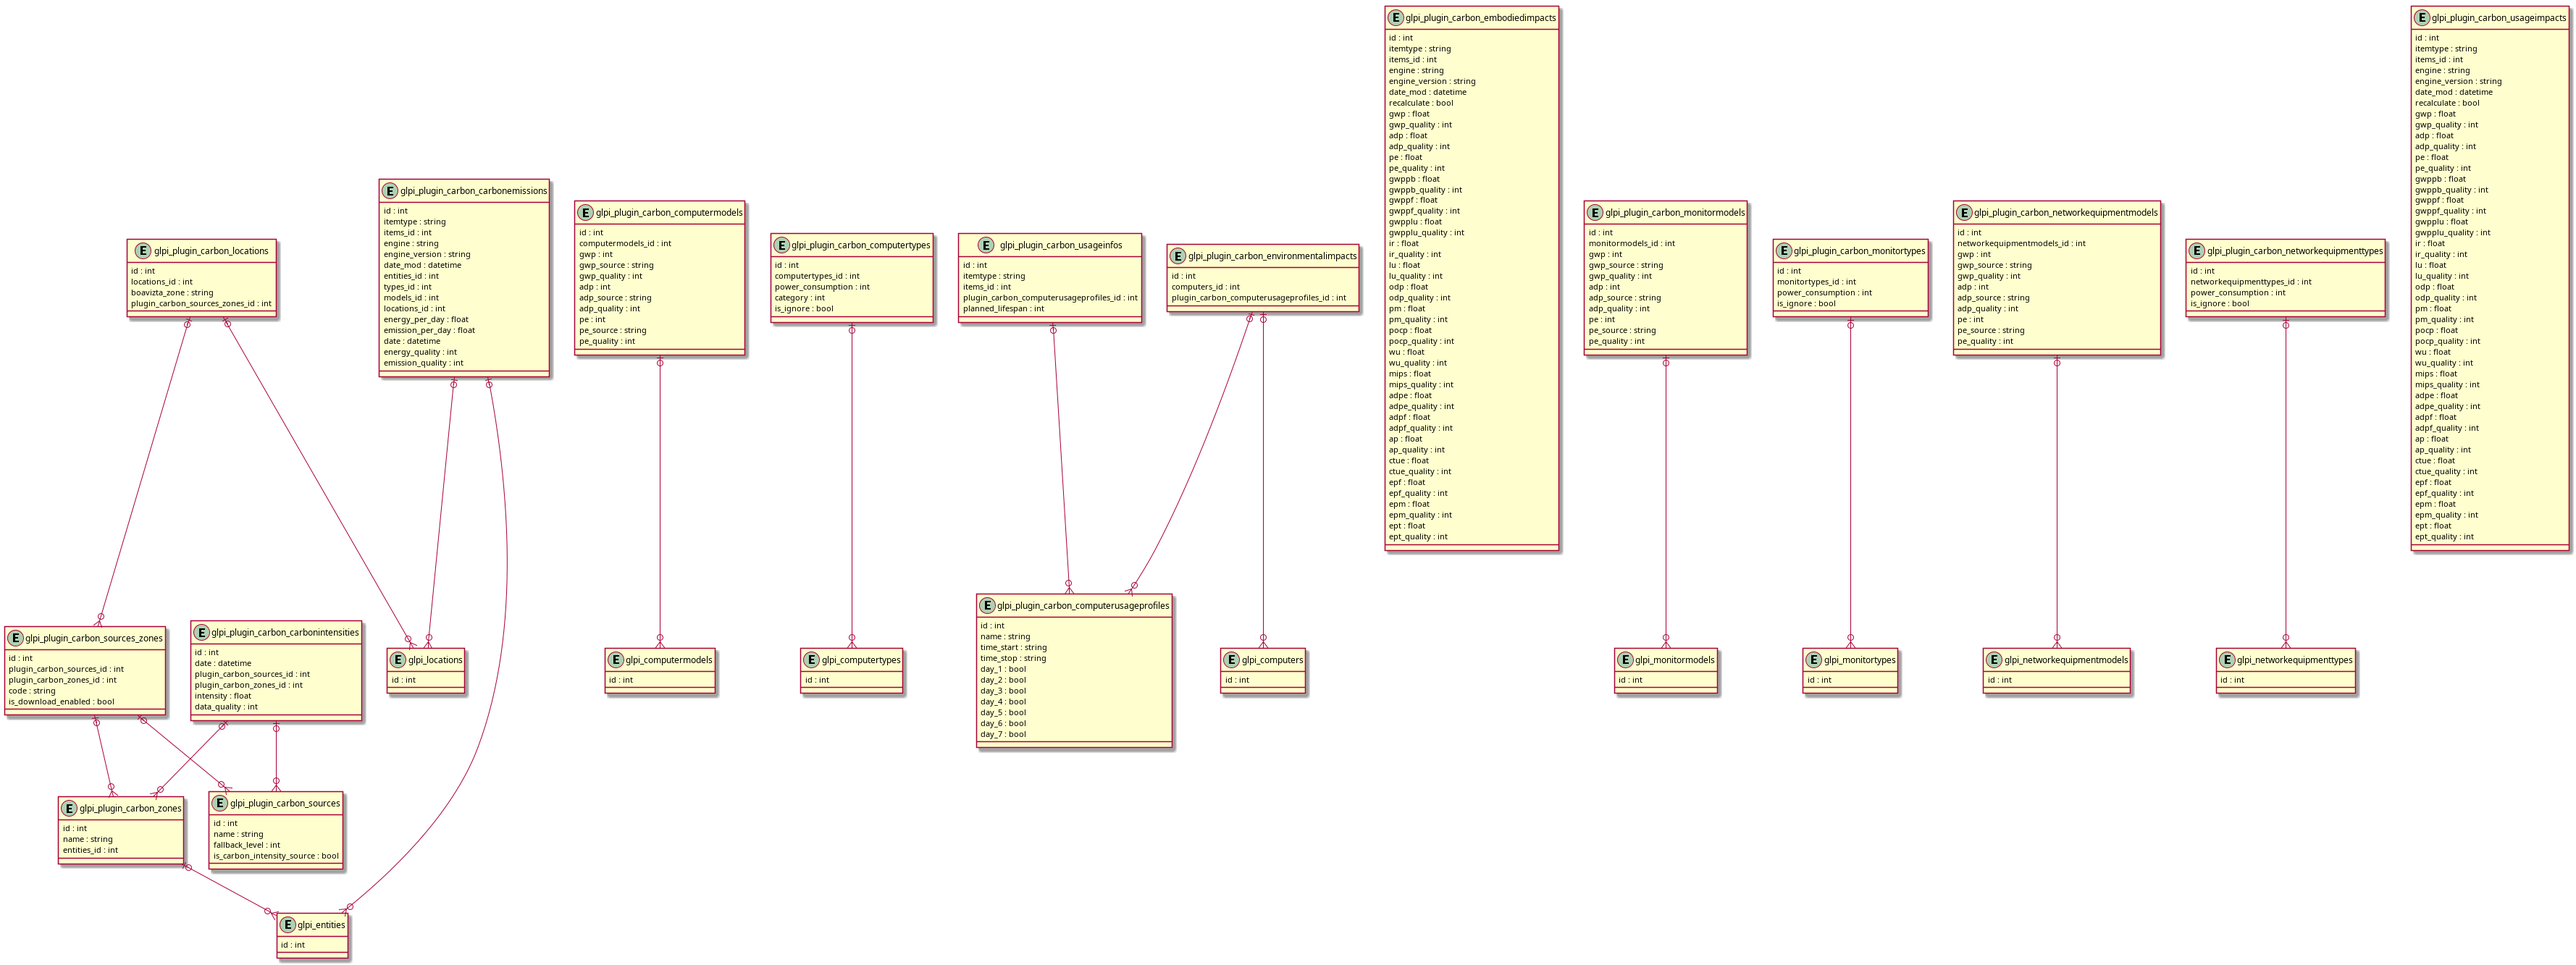
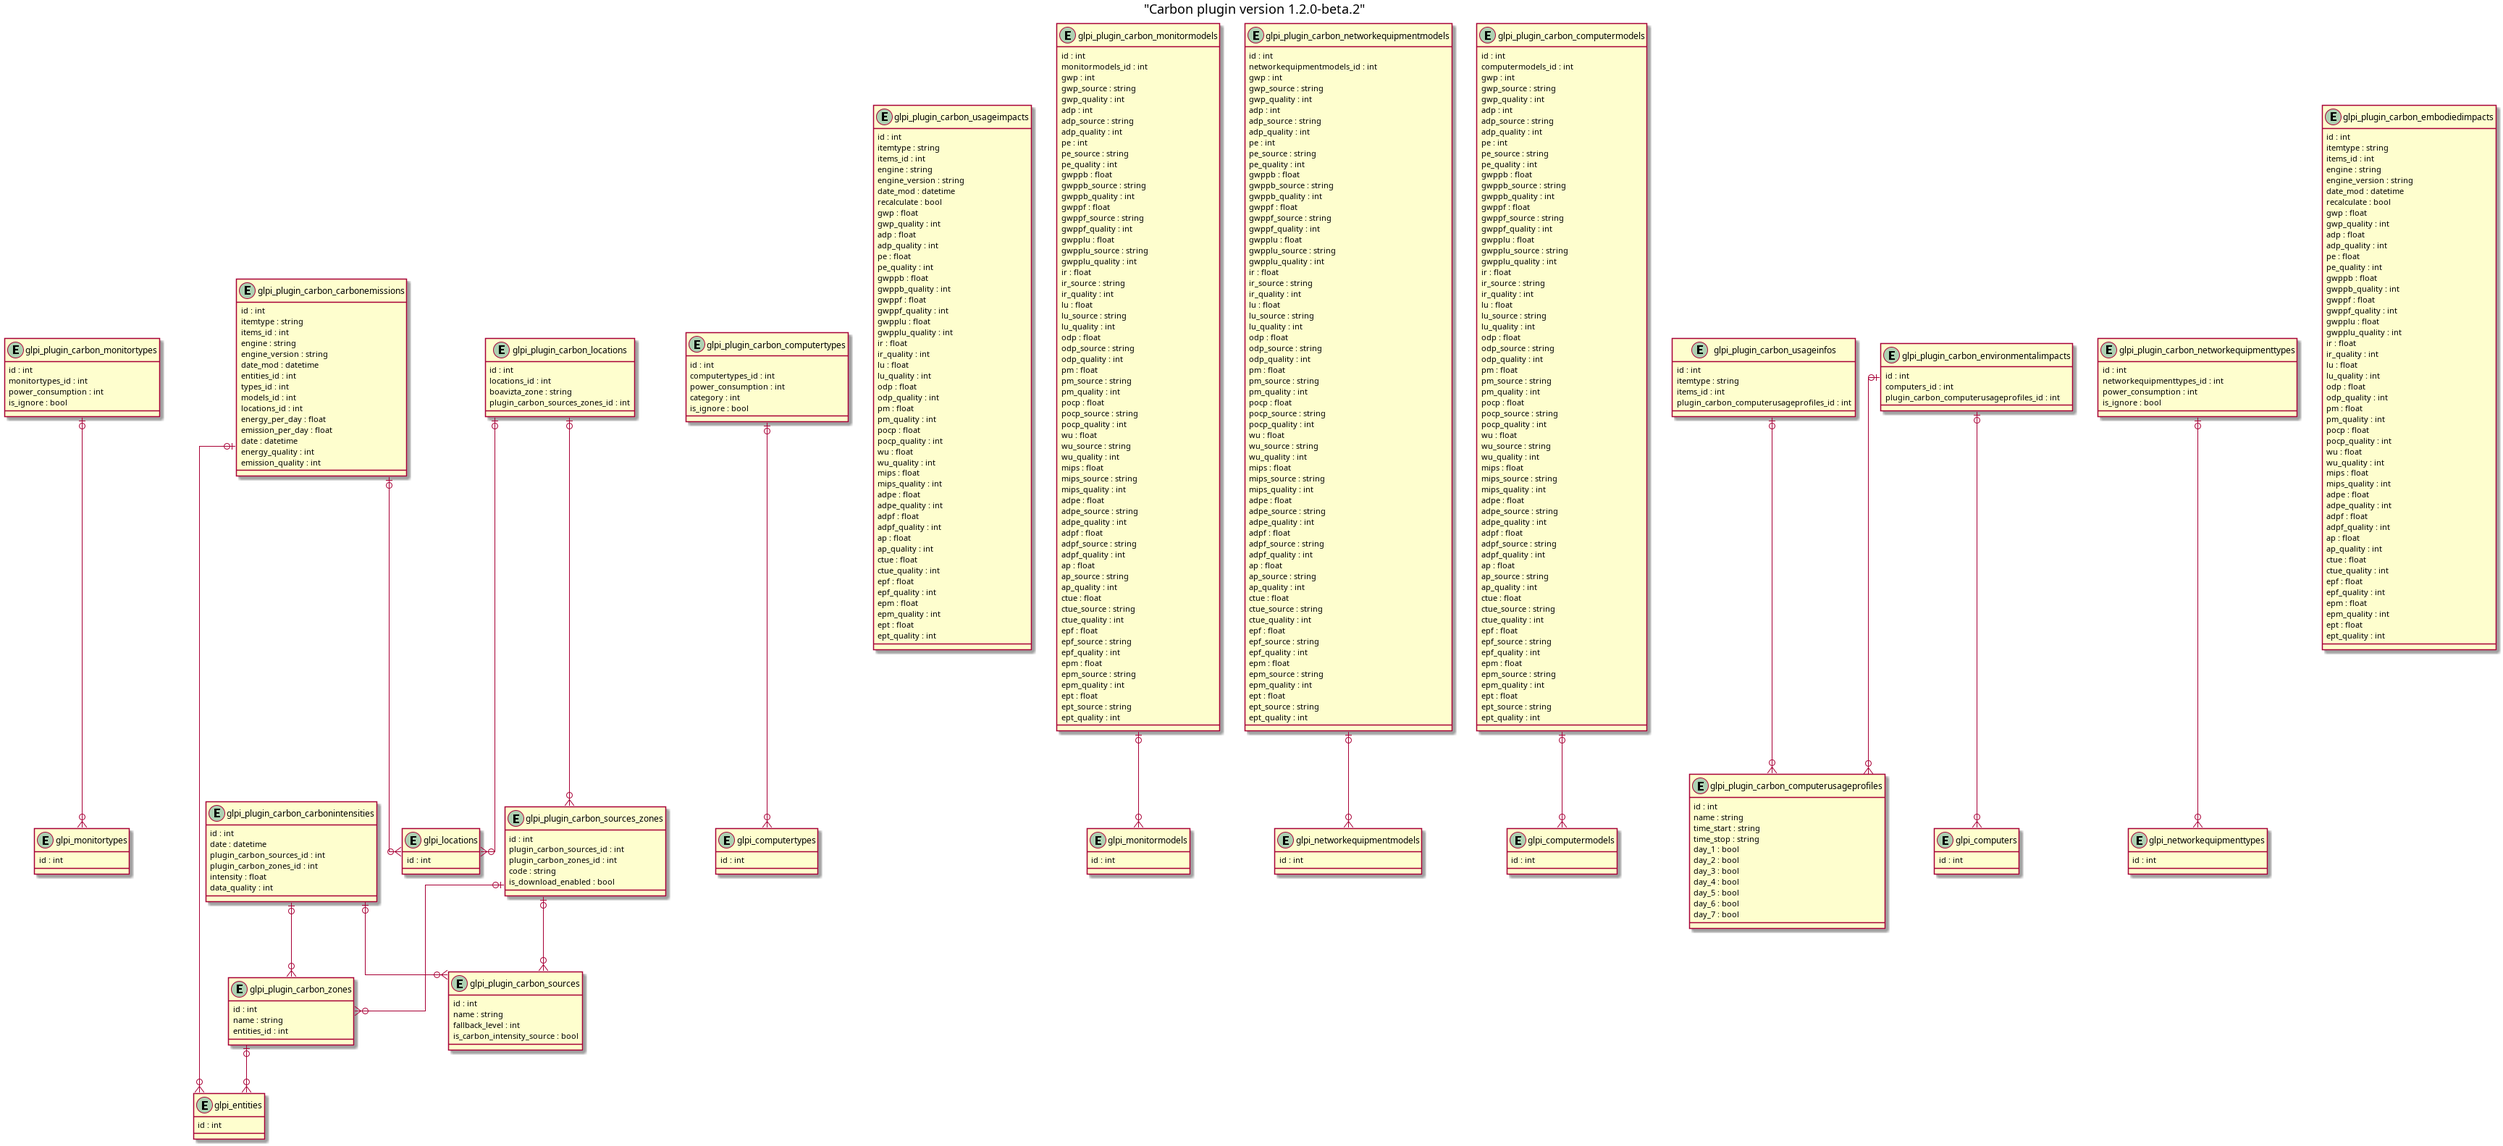
docs: update database schema

diff --git a/tools/PlantUml.php b/tools/PlantUml.php
@@ -48,28 +48,39 @@ class PlantUml
         '1,n' => ['|o', 'o|'],
     ];
 
-    public function generate(array $schema_tables)
+    public function generate(array $schema_tables, string $version = ''): string
     {
-        echo "@startuml" . PHP_EOL;
-        echo "' avoid problems with angled crows feet";
-        echo "skinparam linetype ortho";
+        $source = $this->getPlantUmlSource($schema_tables, $version);
+        return $source;
+    }
+
+    protected function getPlantUmlSource(array $schema_tables, string $version = ''): string
+    {
+        $source = "@startuml" . PHP_EOL;
+        $source .= "' avoid problems with angled crows feet" . PHP_EOL;
+        $source .= "skinparam linetype ortho" . PHP_EOL;
+
+        if ($version !== '') {
+            $escapedVersion = str_replace('"', '\"', $version);
+            $source .= 'title "Carbon plugin version ' . $escapedVersion . '"' . PHP_EOL;
+        }
 
         foreach ($schema_tables as $table_data) {
-            echo PHP_EOL;
+            $source .= PHP_EOL;
             $table_name = $table_data['name'];
             // $itemtype = $db_utils->getItemTypeForTable($table_name);
             // $itemtype_name = $itemtype::getTypeName(1);
-            echo "entity \"$table_name\" as $table_name {" . PHP_EOL;
+            $source .= "entity \"$table_name\" as $table_name {" . PHP_EOL;
             foreach ($table_data['fields'] as $field) {
                 $field_type = $field[0];
                 $field_name = $field[1];
-                echo "    $field_name : $field_type" . PHP_EOL;
+                $source .= "    $field_name : $field_type" . PHP_EOL;
             }
-            echo "}" . PHP_EOL;
+            $source .= "}" . PHP_EOL;
             if (count($table_data['links']) === 0) {
                 continue;
             }
-            echo PHP_EOL;
+            $source .= PHP_EOL;
         }
 
         foreach ($schema_tables as $table_data) {
@@ -79,10 +90,10 @@ class PlantUml
                 $foreign_cardinality = self::CARDINALITY[$link['foreign']][1];
                 $foreign_table = $link['table'];
                 $relation_label = $link['label'];
-                echo "$table_name $local_cardinality--$foreign_cardinality $foreign_table" . PHP_EOL;
+                $source .= "$table_name $local_cardinality--$foreign_cardinality $foreign_table" . PHP_EOL;
             }
         }
 
-        echo "@enduml" . PHP_EOL;
+        return $source . "@enduml";
     }
 }

diff --git a/tools/Mermaid.php b/tools/Mermaid.php
@@ -47,36 +47,44 @@ class Mermaid
         '1,n' => ['|o', 'o|'],
     ];
 
-    public function generate(array $schema_tables)
+    public function generate(array $schema_tables): string
     {
-        echo "---" . PHP_EOL;
-        echo "title: GLPI Database Schema" . PHP_EOL;
-        echo "---" . PHP_EOL;
-        echo "erDiagram" . PHP_EOL;
+        $source = $this->getMermaidSource($schema_tables);
+        return $source;
+    }
+
+    protected function getMermaidSource(array $schema_tables): string
+    {
+        $source = '';
+        $source .= "---" . PHP_EOL;
+        $source .= "title: GLPI Database Schema" . PHP_EOL;
+        $source .= "---" . PHP_EOL;
+        $source .= "erDiagram" . PHP_EOL;
 
         foreach ($schema_tables as $table_data) {
             echo PHP_EOL;
             $table_name = $table_data['name'];
             // $itemtype = $db_utils->getItemTypeForTable($table_name);
             // $itemtype_name = $itemtype::getTypeName(1);
-            echo "    $table_name {" . PHP_EOL;
+            $source .= "    $table_name {" . PHP_EOL;
             foreach ($table_data['fields'] as $field) {
                 $field_type = $field[0];
                 $field_name = $field[1];
-                echo "        $field_type $field_name" . PHP_EOL;
+                $source .= "        $field_type $field_name" . PHP_EOL;
             }
-            echo "    }" . PHP_EOL;
+            $source .= "    }" . PHP_EOL;
             if (count($table_data['links']) === 0) {
                 continue;
             }
-            echo PHP_EOL;
+            $source .= PHP_EOL;
             foreach ($table_data['links'] as $link) {
                 $local_cardinality = self::CARDINALITY[$link['local']][0];
                 $foreign_cardinality = self::CARDINALITY[$link['foreign']][1];
                 $foreign_table = $link['table'];
                 $relation_label = $link['label'];
-                echo "    $table_name $local_cardinality--$foreign_cardinality $foreign_table : $relation_label" . PHP_EOL;
+                $source .= "    $table_name $local_cardinality--$foreign_cardinality $foreign_table : $relation_label" . PHP_EOL;
             }
         }
+        return $source;
     }
 }

diff --git a/tools/build-db-schema.php b/tools/build-db-schema.php
@@ -78,7 +78,7 @@ const CARDINALITY_ONE_N    = '1,n';
 $schema_tables = findTables($argv[1] ?? '');
 findRelations($schema_tables);
 completeMissingData($schema_tables);
-showEntityRelations($schema_tables);
+echo showEntityRelations($schema_tables);
 
 /**
  * Get all tables to analyze
@@ -328,8 +328,32 @@ function isRelationTableWithProperties($table): bool
     return false;
 }
 
-function showEntityRelations($schema_tables)
+function showEntityRelations($schema_tables): string
 {
     $generator = new PlantUml();
-    $generator->generate($schema_tables);
+    $pluginVersion = getPluginVersion();
+    return $generator->generate($schema_tables, $pluginVersion);
+}
+
+function getPluginVersion(): string
+{
+    $setupFile = dirname(__DIR__) . '/setup.php';
+    if (!file_exists($setupFile)) {
+        return '';
+    }
+
+    require_once $setupFile;
+
+    $pluginName = basename(dirname(__DIR__));
+    $versionFunction = 'plugin_version_' . $pluginName;
+    if (!is_callable($versionFunction)) {
+        return '';
+    }
+
+    $pluginInfo = $versionFunction();
+    if (!is_array($pluginInfo) || empty($pluginInfo['version'])) {
+        return '';
+    }
+
+    return (string) $pluginInfo['version'];
 }
